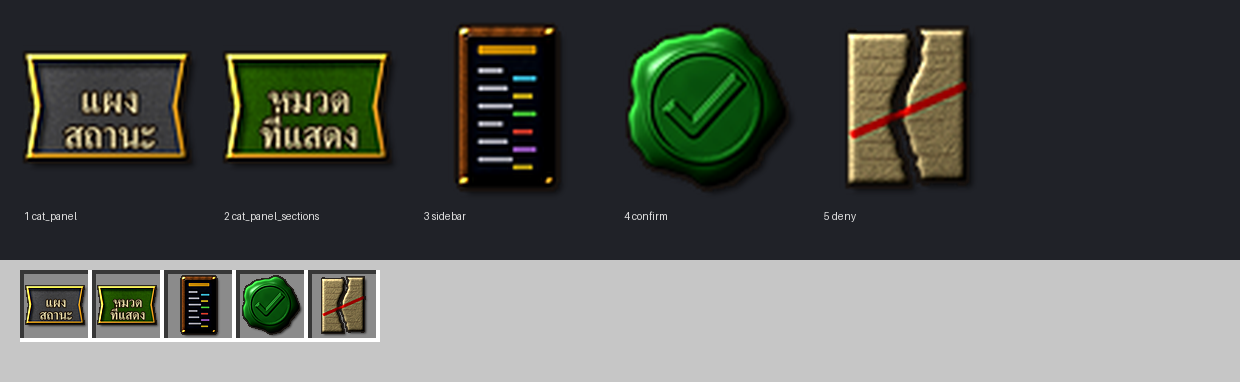
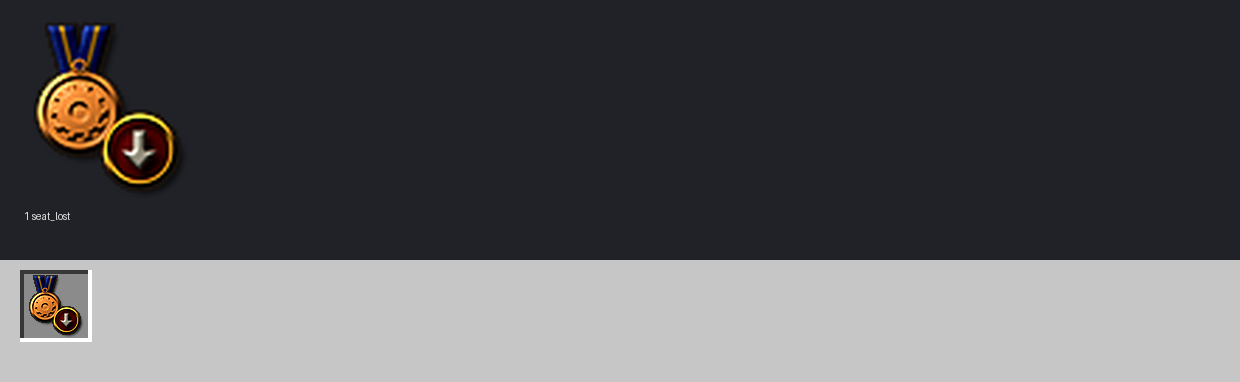
Seat lost: profession medal with a down badge
Warning on the skill-switch screen when the switch costs a profession seat (user's choice 2026-10-18).

Claude-Session: https://claude.ai/code/session_01TXMnSgkcD5k7UZcrhrPAst

diff --git a/tools/stages.py b/tools/stages.py
@@ -14,7 +14,7 @@ STAGES = {
     'stage4': ('ก่อสร้าง + งานหลวง', 'zone_staff project_plan project_new site handover materials materials_add foreman apply_foreman workers apply_worker wage ladder floor ceiling demolish renovate job_fix buildings'.split()),
     'stage5': ('เศรษฐกิจ', 'vault treasury_buy treasury_sell vault_expand ledger market_tax price_tag unit_price mint trade_offer stall stall_close sack sell basket buy_order abacus crate claim coin_pile bundle city_materials city_work citizen_tax'.split()),
     'stage6': ('ราชการ + อาณาจักร', 'court governor governor_appoint governor_dismiss noble noble_appoint noble_dismiss city_upgrade abdicate secretariat roster npc npc_skill ballot decree colony_flag colony_found barracks commander bunk locker royal_petition bug_report idea'.split()),
-    'stage7': ('ทักษะ / อาชีพ', ['job_' + j for j in JOBS] + 'job_switch job_rest job_return apply_profession resign_profession bag_empty skill_active skill_passive enchant life_mining life_woodcutting life_cooking buff_speed buff_strength buff_resistance buff_regeneration buff_haste buff_job_xp buff_extra_drop buff_cooldown'.split()),
+    'stage7': ('ทักษะ / อาชีพ', ['job_' + j for j in JOBS] + 'job_switch job_rest job_return apply_profession resign_profession seat_lost bag_empty skill_active skill_passive enchant life_mining life_woodcutting life_cooking buff_speed buff_strength buff_resistance buff_regeneration buff_haste buff_job_xp buff_extra_drop buff_cooldown'.split()),
     'stage8': ('Admin', 'admin_cooldown_off admin_cooldown_on admin_quickcast admin_fx admin_npc_treasurer admin_npc_memory admin_npc_quest admin_npc_secretary admin_village_spawn admin_quest_board admin_king_appoint admin_king_remove admin_skill_give admin_skill_remove admin_skill_level admin_mastery_level admin_player_level admin_player_money admin_village_xp admin_slave_test admin_items admin_treasury_open admin_treasury_items admin_treasury_money admin_player_menu admin_city_tier'.split()),
     'stage9': ('หมวดหมู่ (ป้ายซ้ายแถว, ตัวหนังสือ)', [l.split('\t')[0] for l in open(__import__('os').path.join(__import__('os').path.dirname(__file__), 'categories.tsv'), encoding='utf-8') if l.strip() and not l.startswith('#')]),
 }

diff --git a/tools/icons/seat_lost.py b/tools/icons/seat_lost.py
@@ -1,0 +1,6 @@
+"""จะเสียที่นั่ง: the guild medal of อาชีพ with a down badge (a seat of the line is lost)."""
+from lib import variant
+
+
+def draw():
+    return variant('profession', 'down')

diff --git a/ICONS.md b/ICONS.md
@@ -169,7 +169,7 @@ Generated by `tools/build.py` from `tools/stages.py` and each icon's docstring. 
 | `bug_report` | ฎีกาหมวดบั๊ก: a black beetle crawling across a written report. |
 | `idea` | ฎีกาหมวดข้อเสนอแนะ: a brass oil lamp burning - a bright idea in a medieval hand. |
 
-## Stage7 — ทักษะ / อาชีพ (56)
+## Stage7 — ทักษะ / อาชีพ (57)
 
 ![stage7](preview/stage7.png)
 
@@ -216,6 +216,7 @@ Generated by `tools/build.py` from `tools/stages.py` and each icon's docstring. 
 | `job_return` | ได้ใช้ (กลับมาใช้): the profession icon with a up badge. |
 | `apply_profession` | สมัครอาชีพ: the guild medal of อาชีพ with a plus badge. |
 | `resign_profession` | ลาออกจากอาชีพ: the guild medal of อาชีพ with a minus badge. |
+| `seat_lost` | จะเสียที่นั่ง: the guild medal of อาชีพ with a down badge (a seat of the line is lost). |
 | `bag_empty` | กระเป๋าไร้ก้นต้องว่าง: the sack icon with a minus badge. |
 | `skill_active` | สกิล Active: a burning orb. |
 | `skill_passive` | สกิล Passive: a glowing rune tome. |
